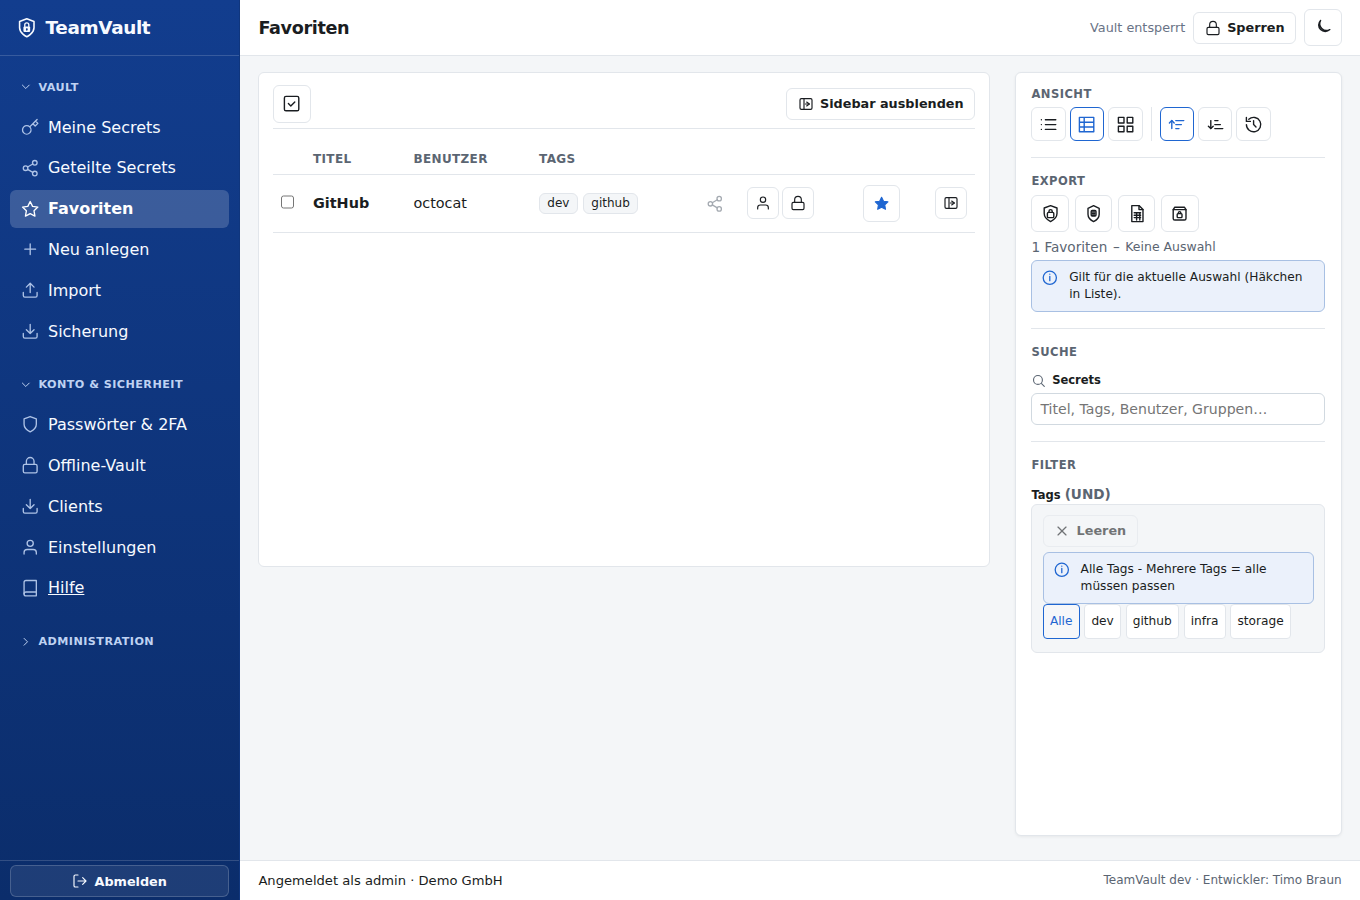
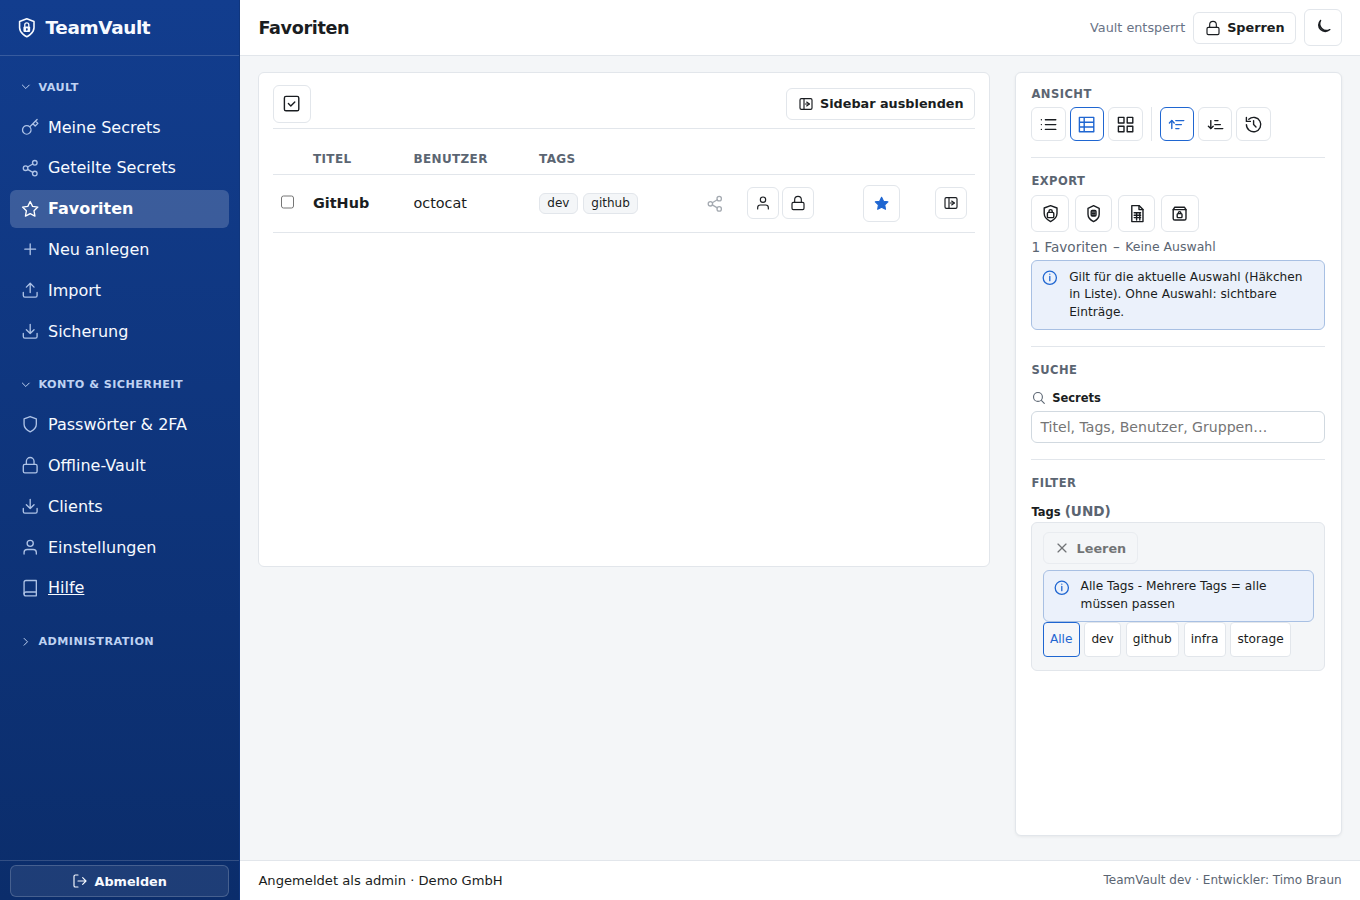
Add compact sidebar hint boxes and refresh shots

Changed region(s): [[0.7412, 0.3422, 0.9574, 0.7467], [0.8338, 0.3111, 0.9265, 0.3422]]

diff --git a/web/static/app.js b/web/static/app.js
@@ -2144,7 +2144,7 @@ function renderApp(app) {
                   </div>
                   <div class="secrets-sidebar-section secrets-sidebar-static" id="sActionsWrap">
                     <p class="secrets-actions-heading">Export</p>
-                    <div class="secrets-actions-tools" role="group" aria-label="Export für Auswahl">
+                    <div class="secrets-actions-tools" role="group" aria-label="Export für Auswahl oder sichtbare Einträge">
                       <button type="button" class="btn-icon" id="sExportTv" title="TeamVault JSON exportieren" aria-label="TeamVault JSON exportieren">${icon("appTeamvault")}</button>
                       <button type="button" class="btn-icon" id="sExportJson" title="Bitwarden JSON exportieren" aria-label="Bitwarden JSON exportieren">${icon("appBitwarden")}</button>
                       <button type="button" class="btn-icon" id="sExportCsv" title="CSV exportieren" aria-label="CSV exportieren">${icon("appCsv")}</button>
@@ -2155,7 +2155,7 @@ function renderApp(app) {
                       <span class="hint secrets-status-sep">–</span>
                       <span class="hint secrets-actions-meta" id="selCount">Keine Auswahl</span>
                     </div>
-                    ${hintBox("Gilt für die aktuelle Auswahl (Häkchen in Liste).", { className: "hint-box-compact secrets-export-note", id: "sExportSummary" })}
+                    ${hintBox("Gilt für die aktuelle Auswahl (Häkchen in Liste). Ohne Auswahl: sichtbare Einträge.", { className: "hint-box-compact secrets-export-note", id: "sExportSummary" })}
                     <div class="secrets-load-more" id="sLoadMoreWrap" hidden>
                       <p class="hint" id="sLoadMoreHint"></p>
                       <button type="button" class="btn-ghost btn-sm" id="sMore">Weitere laden</button>
